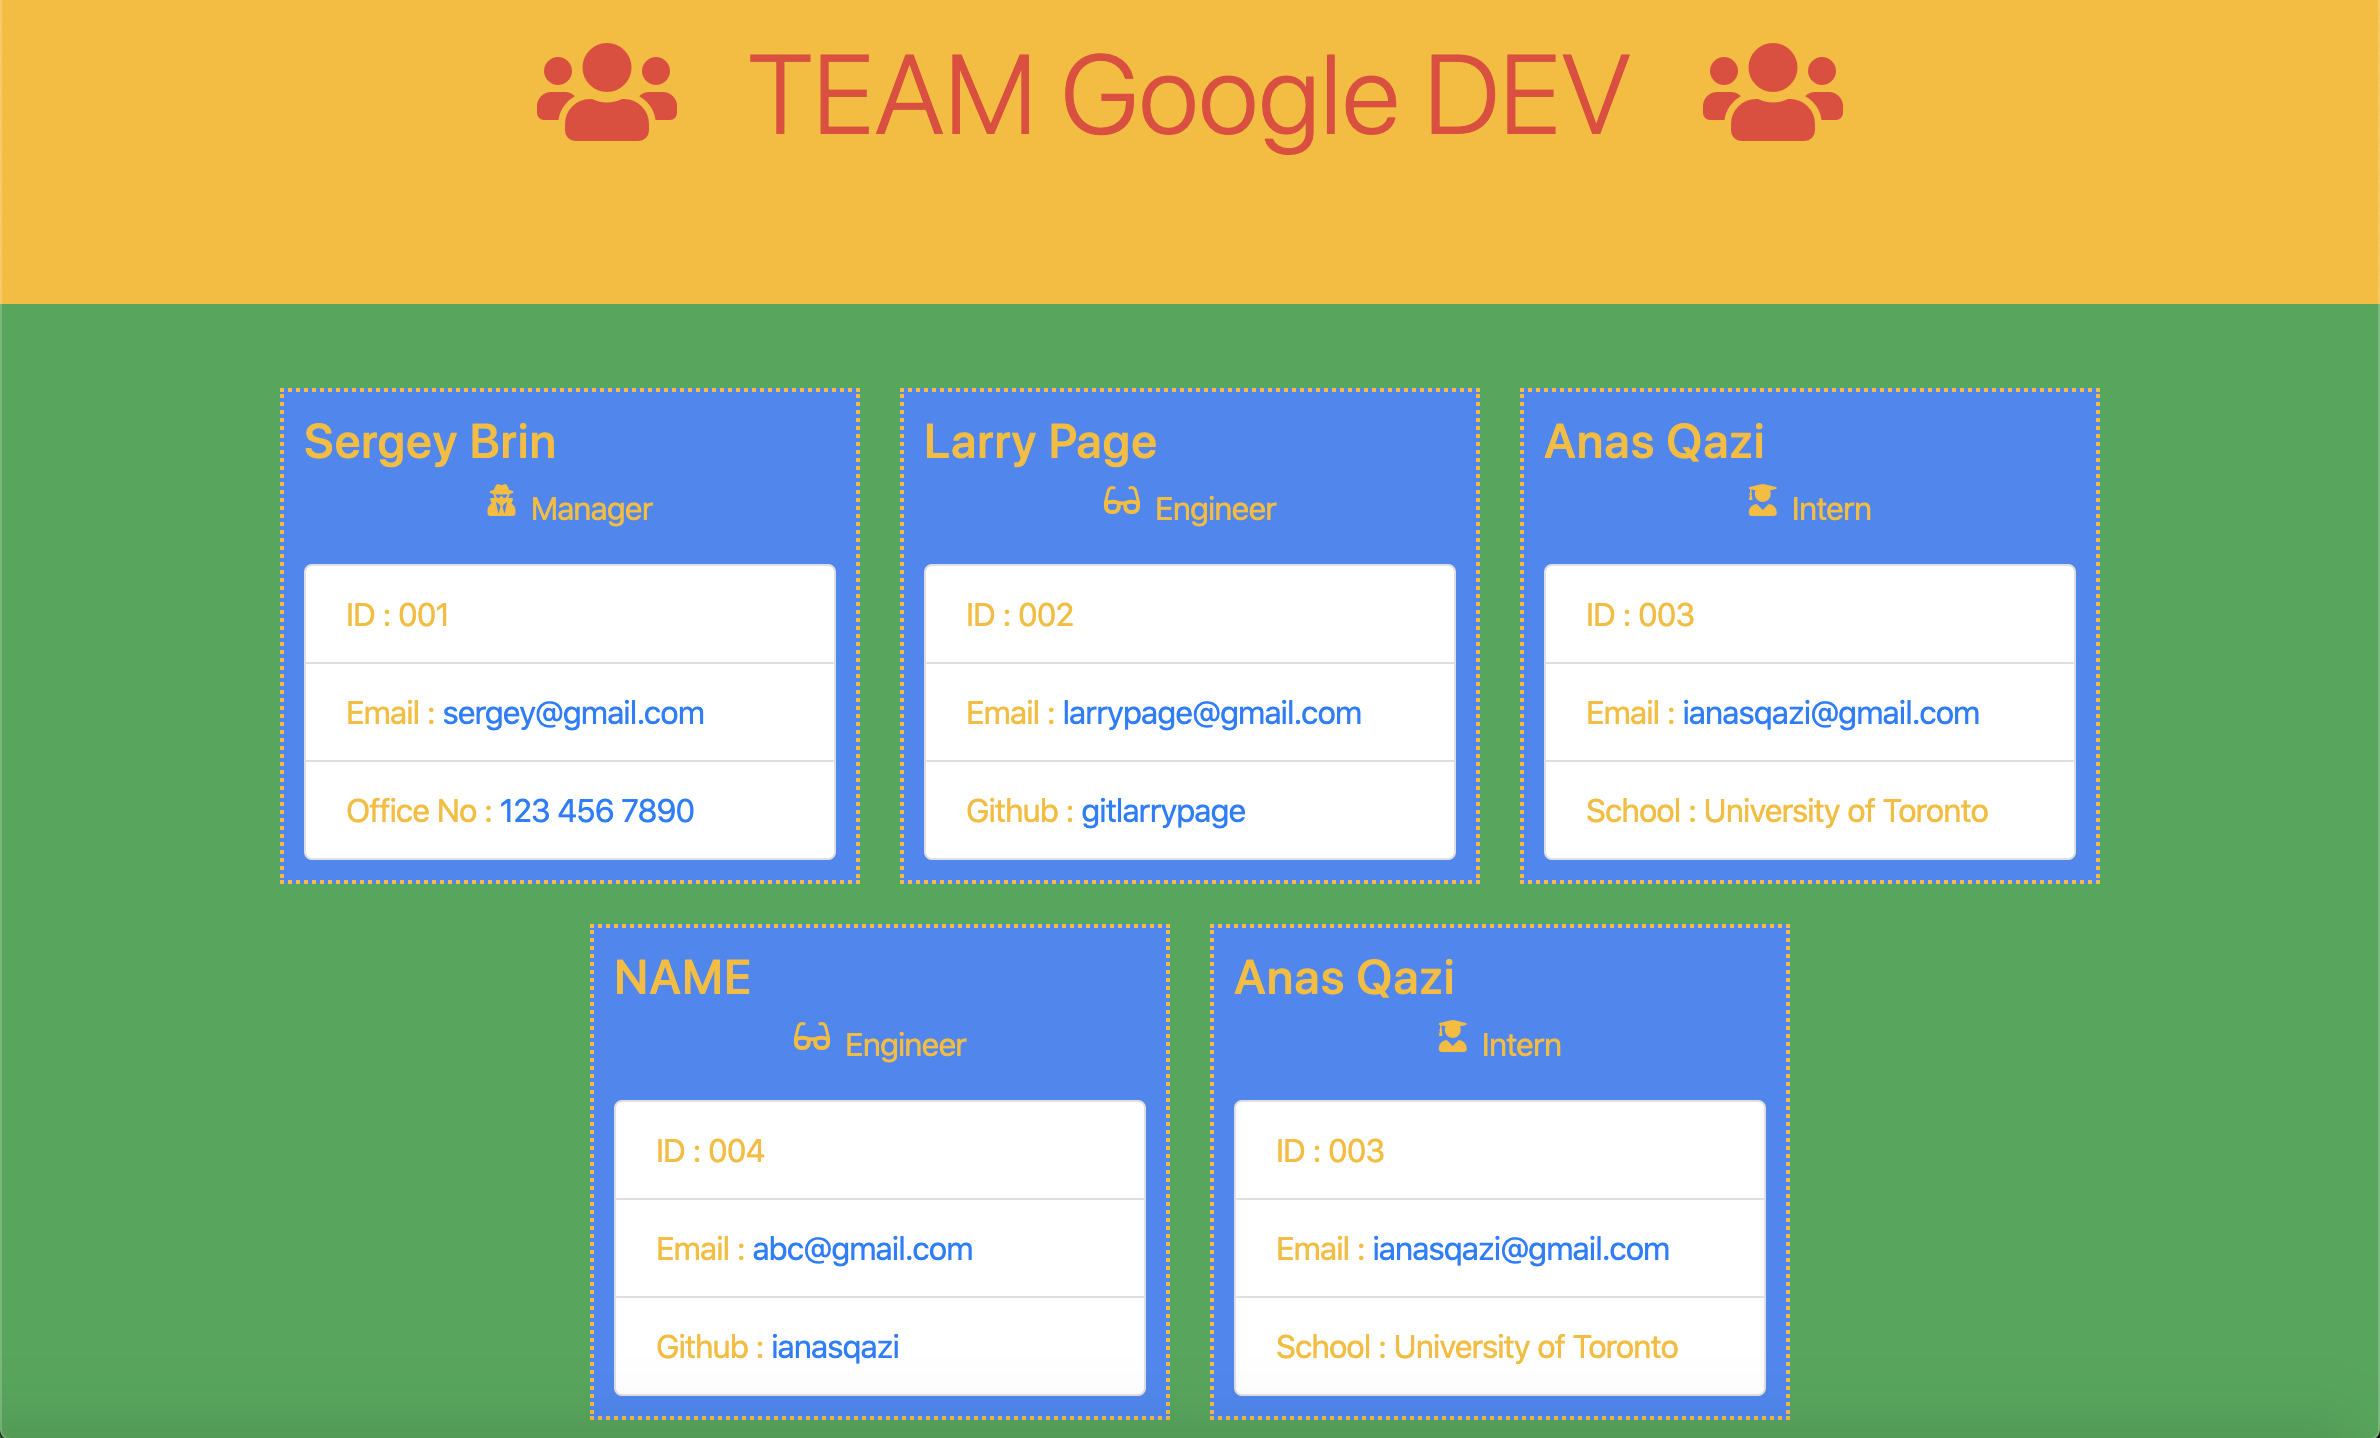
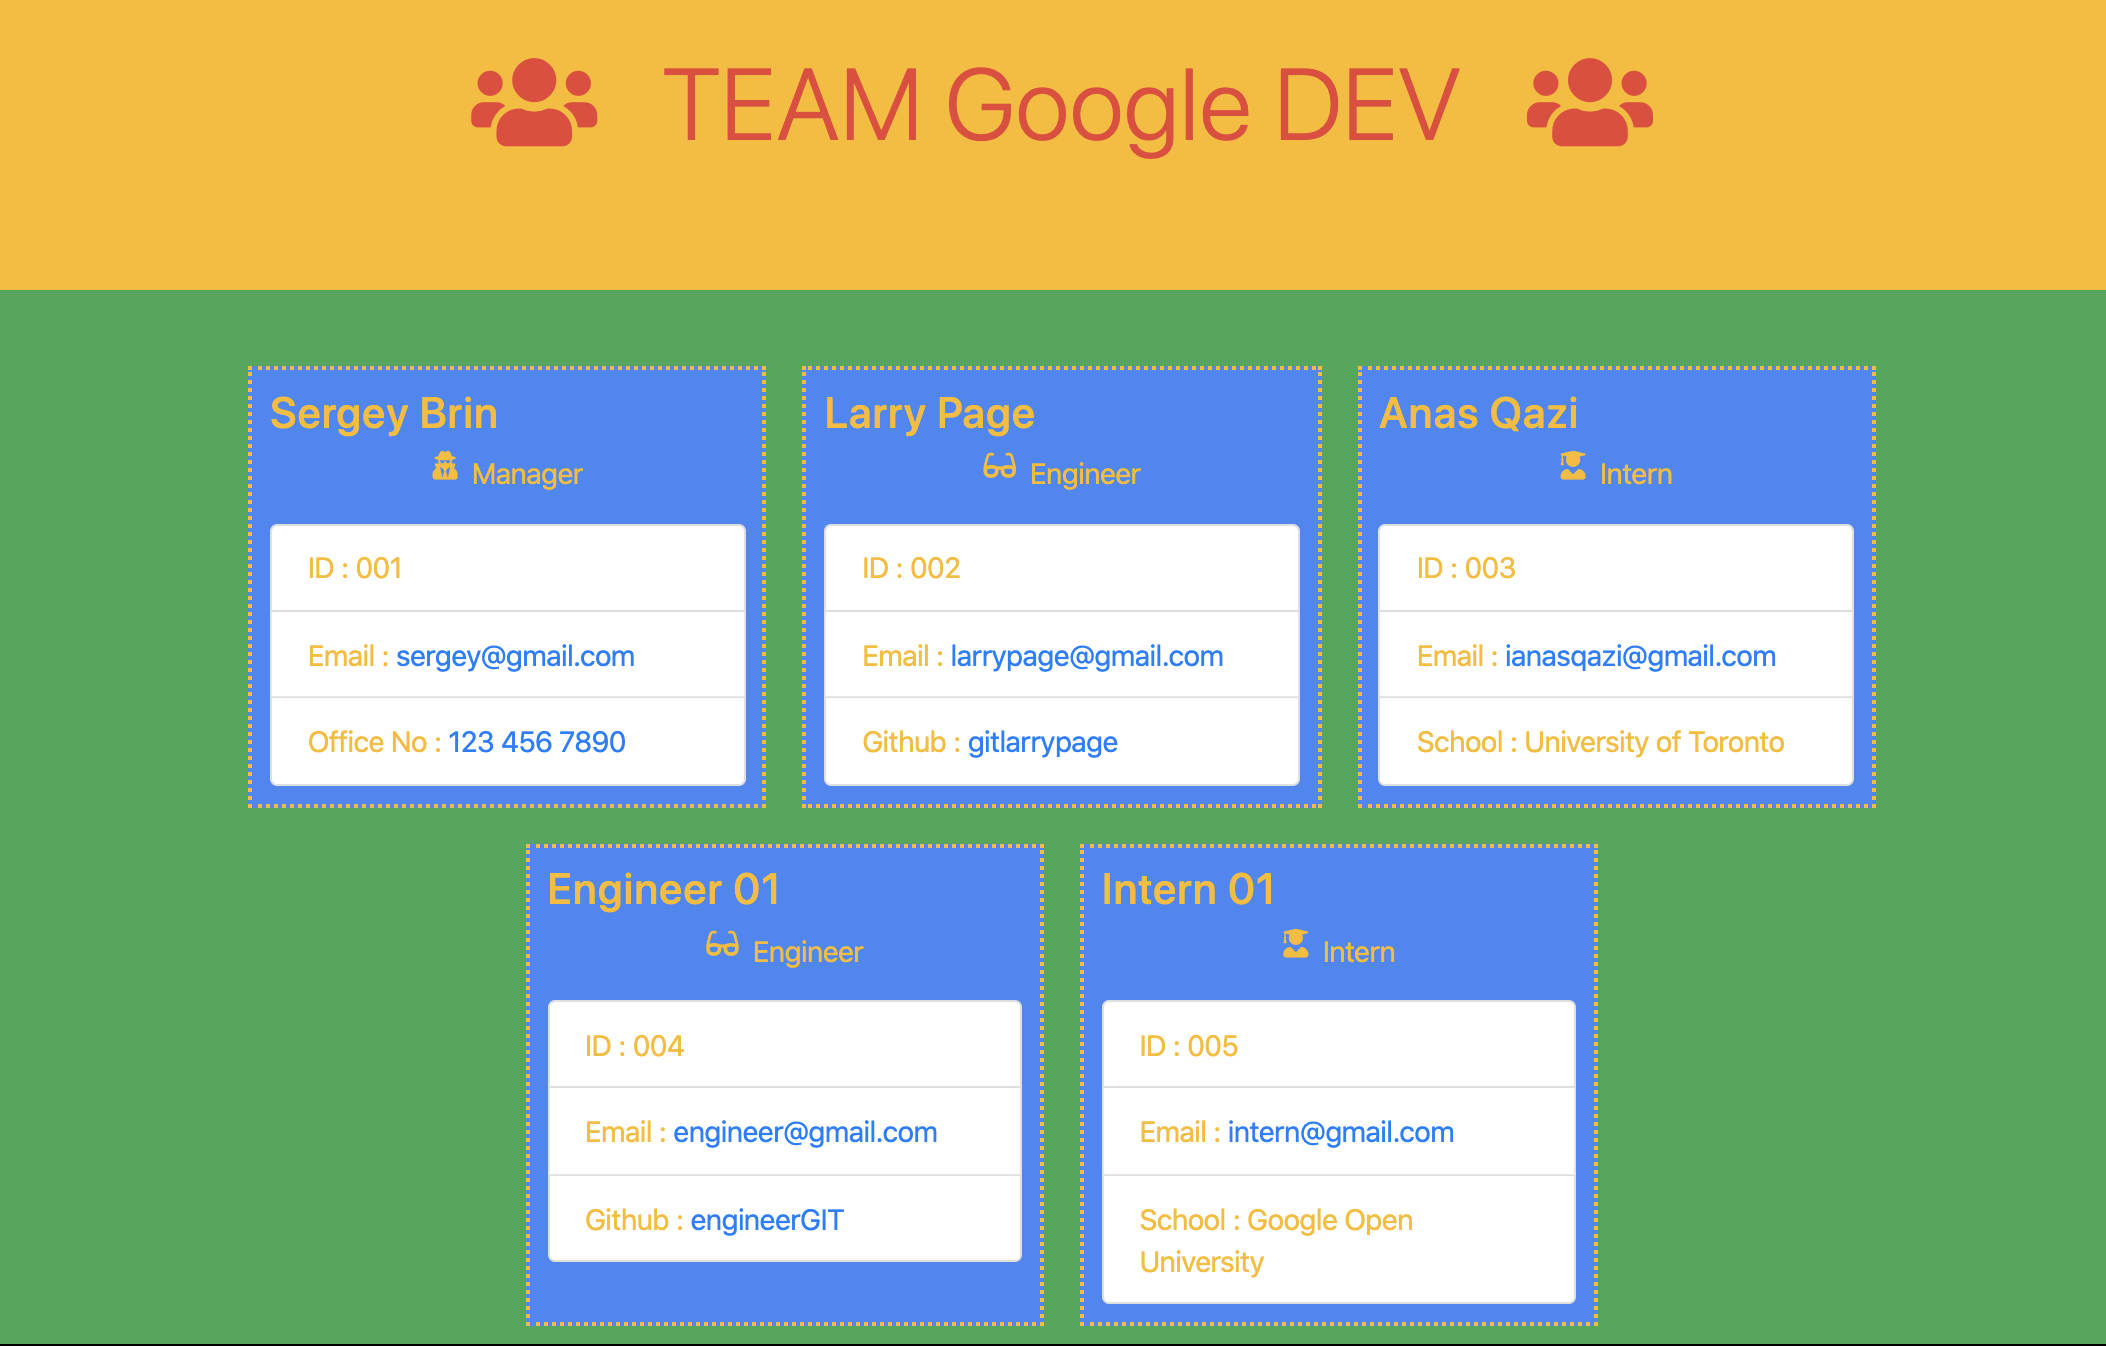
Final Commit

diff --git a/output/Team_Roaster.html b/output/Team_Roaster.html
@@ -110,14 +110,14 @@
         <div class="col-lg-3 col-md-3 col-sm-6 col-xs-12" id="employeesInfo">
                 
             <div id="nameRole">
-                    <h4>NAME</h4>
+                    <h4>Engineer 01</h4>
                     <div class="row"><i class="fas fa-glasses"></i><p> &nbsp; Engineer</p></div>
                 </div>
                 <div>
                     <ul class="list-group">
                         <li class="list-group-item">ID : 004</li>
-                        <li class="list-group-item">Email : <a href="mailto:abc@gmail.com">abc@gmail.com</a></li>
-                        <li class="list-group-item">Github : <a href="https://github.com/ianasqazi" target="_blank">ianasqazi</a></li>
+                        <li class="list-group-item">Email : <a href="mailto:engineer@gmail.com">engineer@gmail.com</a></li>
+                        <li class="list-group-item">Github : <a href="https://github.com/engineerGIT" target="_blank">engineerGIT</a></li>
                     </ul>
             </div>  
     
@@ -127,15 +127,15 @@
         <div class="col-lg-3 col-md-3 col-sm-6 col-xs-12" id="employeesInfo">
 
             <div id="nameRole">
-                <h4>Anas Qazi</h4>
+                <h4>Intern 01</h4>
                 <div class="row"><i class="fas fa-user-graduate"></i><p> &nbsp; Intern</p></div>
             </div>
 
             <div>
                 <ul class="list-group">
-                    <li class="list-group-item">ID : 003</li>
-                    <li class="list-group-item">Email : <a href="mailto:ianasqazi@gmail.com">ianasqazi@gmail.com</a></li>
-                    <li class="list-group-item">School : University of Toronto</li>
+                    <li class="list-group-item">ID : 005</li>
+                    <li class="list-group-item">Email : <a href="mailto:intern@gmail.com">intern@gmail.com</a></li>
+                    <li class="list-group-item">School : Google Open University</li>
                 </ul>
             </div>  
         
